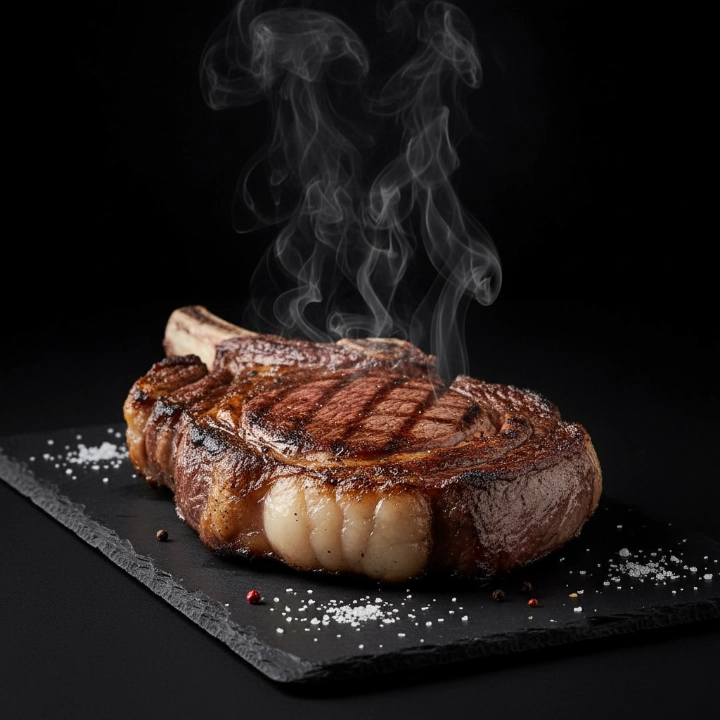
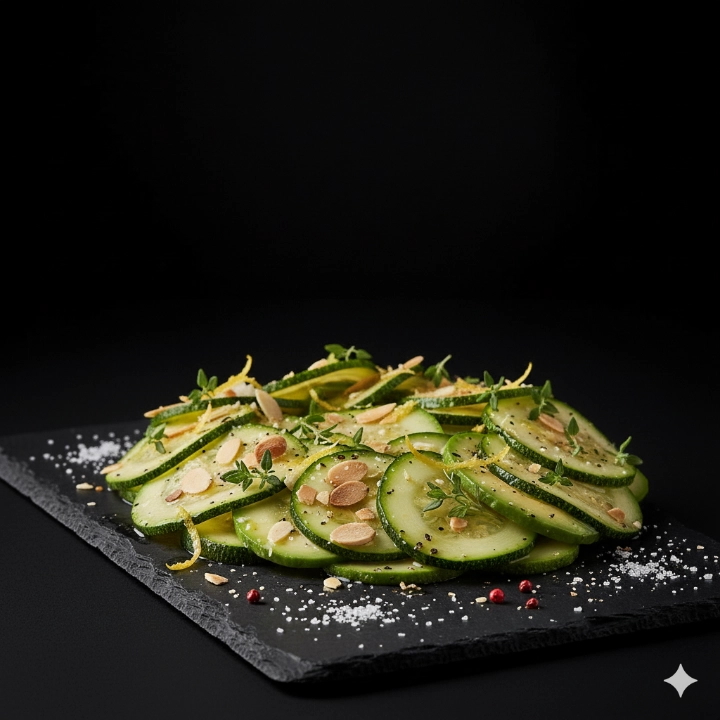
imatges webp de 5 productes de cada categoria i valoracions sobre diversos productes per veure les valoracions d'una forma interactiva també

Changed region(s): [[0.0917, 0.0, 1.0, 0.8556], [0.9167, 0.9167, 0.9778, 0.9778], [0.275, 0.0917, 0.3056, 0.1528]]

diff --git a/public/css/background-styles.css b/public/css/background-styles.css
@@ -2,35 +2,35 @@
 /** Basic Backgrounds **/
 .white-bg {
     background: var(--secondary-white);
-    background-image: url('/assets/img/bg/bg-white.png');
+    background-image: url('/assets/img/bg/bg-white.webp');
     background-position: center;
     background-repeat: no-repeat;
     background-size: cover;
 }
 .red-bg {
     background: var(--secondary-red);
-    background-image: url('/assets/img/bg/bg-red.png');
+    background-image: url('/assets/img/bg/bg-red.webp');
     background-position: center;
     background-repeat: no-repeat;
     background-size: cover;
 }
 .red-2-bg {
     background: var(--secondary-red);
-    background-image: url('/assets/img/bg/bg-red-2.png');
+    background-image: url('/assets/img/bg/bg-red-2.webp');
     background-position: center;
     background-repeat: no-repeat;
     background-size: cover;
 }
 .dark-red-bg {
     background: var(--secondary-dark-red);
-    background-image: url('/assets/img/bg/bg-dark-red.png');
+    background-image: url('/assets/img/bg/bg-dark-red.webp');
     background-position: center;
     background-repeat: no-repeat;
     background-size: cover;
 }
 .dark-red-2-bg {
     background: var(--secondary-dark-red);
-    background-image: url('/assets/img/bg/bg-dark-red-2.png');
+    background-image: url('/assets/img/bg/bg-dark-red-2.webp');
     background-position: center;
     background-repeat: no-repeat;
     background-size: cover;
